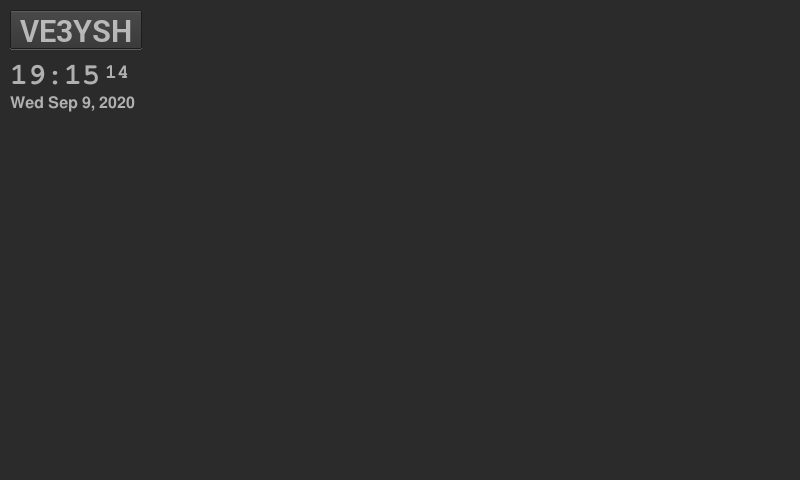
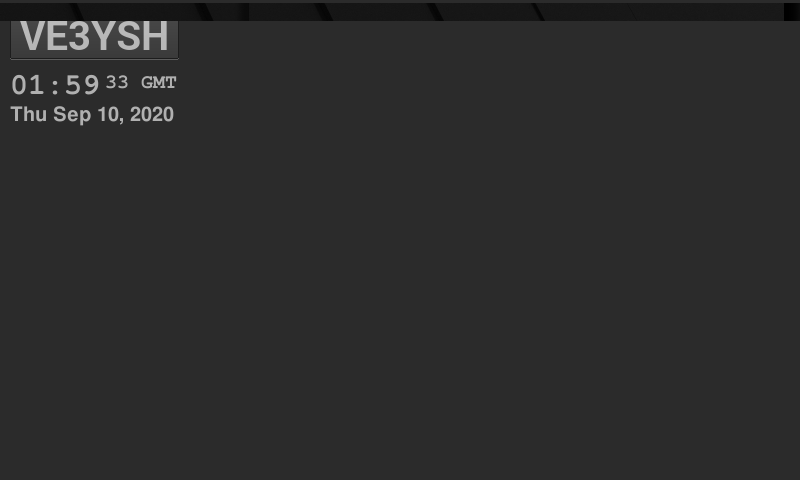
Use a Timer helper class and STLTimer to provide timekeeping to the TimeBox.

diff --git a/sdlgui/timebox.h b/sdlgui/timebox.h
@@ -14,6 +14,62 @@ namespace sdlgui {
     using namespace std;
     using namespace std::chrono;
 
+    /**
+     * @class Timer
+     * @tparam T the class of the timer client
+     *
+     * A helper class to provide an interval timer callback to a client class.
+     * See SDL_AddTimer
+     *
+     */
+    template <class T> class Timer {
+    public:
+        typedef Uint32 (T::*ClientCallback)(Uint32);
+
+    private:
+        T& mClient; //* the client object
+        ClientCallback mCallback;   //* the client member function to call back
+        SDL_TimerID sdlTimerId;
+
+        /**
+         * The static function passed to SDL_AddTimer as the callback
+         * @param interval the current interval
+         * @param param the pointer to this Timer
+         * @return the next interval or 0 to stop the timer
+         */
+        static Uint32 TimerCallbackStub(Uint32 interval, void *param) {
+            auto timer = static_cast<Timer*>(param);
+            return (timer->mClient.*timer->mCallback)(interval);
+        }
+
+    public:
+
+        Timer() = delete;
+        Timer(const Timer &) = delete;
+        Timer(Timer &) = delete;
+
+        /**
+         * Crate the Timer
+         * @param client the client object
+         * @param callback the client objects member callback method
+         * @param interval the requested interval
+         */
+        Timer(T& client, ClientCallback callback, Uint32 interval) : mClient(client), mCallback(callback) {
+            sdlTimerId = SDL_AddTimer(interval, Timer::TimerCallbackStub, this);
+        }
+
+        /**
+         * Remove the SDLTimer when destroyed.
+         */
+        ~Timer() {
+            SDL_RemoveTimer(sdlTimerId);
+        }
+    };
+
+    /**
+     * class TimeBox
+     * A widget to display the current date and time.
+     */
     class TimeBox : public Widget {
     private:
         static constexpr array<string_view, 7> mDays = {
@@ -22,10 +78,11 @@ namespace sdlgui {
                 "Jan", "Feb", "Mar", "Apr", "May", "Jun",
                 "Jul", "Aug", "Sep", "Oct", "Nov", "Dec"};
 
+        Timer<TimeBox> mTimer;
         const time_put<char> &locale_time_put;
         time_point <system_clock> mEpoch;
         duration<double> mElapsedSeconds{};
-        bool mIsLocalTime{true};
+        bool mIsLocalTime{false};
         Widget *mTimeDisplay;
         Widget *mDateDisplay;
         Label *mHoursMins;
@@ -40,13 +97,36 @@ namespace sdlgui {
         std::string mTimeBoxDateFont;
 
     public:
+        /**
+         * Constructor
+         * @param parent the parent Widget
+         * @param font the font to use or an empty string for the default
+         * @param fontSize the font size to use or -1 for the default
+         */
         explicit TimeBox(Widget *parent,
                          const std::string &font = "", int fontSize = -1);
 
+        /**
+         * Render time for a specific time.
+         * @param now the time to be rendered.
+         */
         void renderTime(const time_point <system_clock> &now);
 
-        void draw(SDL_Renderer *renderer) override;
+        /**
+         * The timer callback
+         * @param interval
+         * @return the new interval
+         */
+        Uint32 timerCallback(Uint32 interval);
 
+        /**
+         * A helper function to convert the system time to a localized time
+         * @param strm The stream to output time, that is imbued with the locale
+         * @param fill The fill char
+         * @param tm The std::tm struct with the desired time.
+         * @param fmt A format string (see std::locale_time_put::put()
+         * @return an iterator one past the last char generated.
+         */
         auto put_locale_time( stringstream& strm, char fill, const std::tm *tm , const std::string &fmt) {
             if (fmt.empty()) {
                 throw std::runtime_error("Format must not be empty");

diff --git a/sdlgui/timebox.cpp b/sdlgui/timebox.cpp
@@ -9,8 +9,11 @@
 #include <iostream>
 #include "timebox.h"
 
+static Uint32 TimeBoxCallbackStub(Uint32 interval, void *param);
+
 sdlgui::TimeBox::TimeBox(sdlgui::Widget *parent, const std::string &font, int fontSize)
         : Widget(parent),
+          mTimer(*this, &TimeBox::timerCallback, 1000),
           locale_time_put(use_facet<time_put<char>>(locale())) {
     if (fontSize < 0) {
         mTimeBoxHoursMinFontSize = mTheme->mTimeBoxHoursMinFontSize;
@@ -74,12 +77,25 @@ void sdlgui::TimeBox::renderTime(const std::chrono::time_point<std::chrono::syst
     mDate->setCaption(hm.str());
 }
 
-void sdlgui::TimeBox::draw(SDL_Renderer *renderer) {
+Uint32 TimeBoxCallbackStub(Uint32 interval, void *param) {
+    interval = static_cast<sdlgui::TimeBox*>(param)->timerCallback(interval);
+    std::cout << "New timer interval " << interval << '\n';
+    return interval;
+}
+
+Uint32 sdlgui::TimeBox::timerCallback(Uint32 interval) {
     auto now = std::chrono::system_clock::now();
     std::chrono::duration<double> elapsed_seconds = now - mEpoch;
-    if ((elapsed_seconds - mElapsedSeconds).count() >= 1.0) {
+    auto delta_seconds = elapsed_seconds - mElapsedSeconds;
+    if (delta_seconds.count() > 0.9) {
         mElapsedSeconds = elapsed_seconds;
         renderTime(now);
     }
-    Widget::draw(renderer);
+
+    if (delta_seconds.count() > 1.0)
+        fmod(delta_seconds.count(), 1.0) * 1000.0;
+    else if (delta_seconds.count() < 0.990)
+        return 1000.0 - (delta_seconds.count() * 1000.0);
+
+    return 1000;
 }

diff --git a/src/PiApplication.cpp b/src/PiApplication.cpp
@@ -10,7 +10,7 @@ PiGraphicsContext::PiGraphicsContext(const sdlgui::Vector2i &position, const sdl
         mSize(size),
         mPosition(position),
         mCaption(caption) {
-    SDL_Init(SDL_INIT_VIDEO);   // Initialize SDL2
+    SDL_Init(SDL_INIT_VIDEO | SDL_INIT_TIMER);   // Initialize SDL2
 
     SDL_GL_SetAttribute(SDL_GL_RED_SIZE, 8);
     SDL_GL_SetAttribute(SDL_GL_GREEN_SIZE, 8);

diff --git a/hamchrono.cpp b/hamchrono.cpp
@@ -33,7 +33,7 @@ public:
                         .withFixedSize(Vector2i(200, 480));
 
                 pannel1.button("VE3YSH", [] { cout << "QTH Edit\n"; })
-                        .setFontSize(30);
+                        .setFontSize(40);
                 pannel1.wdg<TimeBox>();
 
 //                nwindow.widget().withLayout<BoxLayout>(Orientation::Vertical, Alignment::Minimum)
